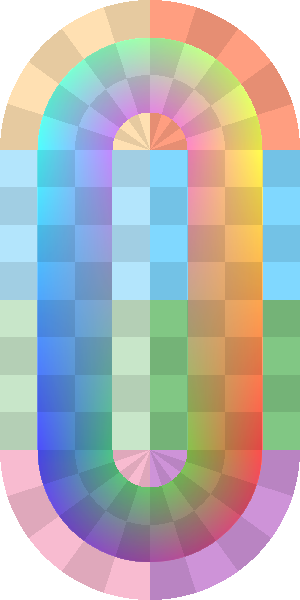
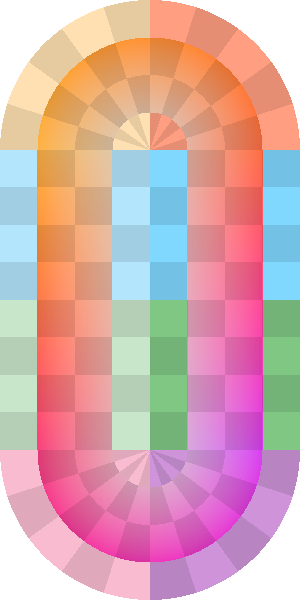
GuiaAjedrez: degradado LCH con centro gris, sin variantes experimentales
Seis colores: pasteles de las tapas saturados (0,75) en los extremos y gris neutro
en el centro de cada nodo; LCH por el arco corto sin saltos. Se descartan las
variantes (colores vivos, RGB, HSL, tono fijo, centros azul y verde).

Claude-Session: https://claude.ai/code/session_01BibuGpxHYXsoU2GosAu2A9

diff --git a/implementacion/java/src/test/java/EstudioGuia.java b/implementacion/java/src/test/java/EstudioGuia.java
@@ -3,50 +3,61 @@ import java.awt.geom.Point2D;
 import java.awt.image.BufferedImage;
 import javax.imageio.ImageIO;
 /**
- * Estudio (rama estudio_pliegues_polar): textura de referencia "informativa" GuiaAjedrez. Tres capas:
- * Textura de 16 x 32 unidades definida por la distancia d a la espina (segmento entre los centros (8, 8) y (8, 24)): d <= 2 sólido, 2 < d <= 6 degradado
- * de la propia gota (radio 6, vuelto a usar como textura), 6 < d <= 8 sólido; los sólidos son los colores de zona de {@link Texturas#referenciaLados()}; encima, ajedrez.
- * Uso: EstudioGuia  (genera estudio_guia_textura.png y estudio_guia_t3b_*.png)
+ * Textura de referencia de los estudios (rama estudio_pliegues_polar, issue #29): {@link GuiaAjedrez}, usada como {@code EstudioUV.Guia}.
+ *
+ * <p>Textura de 16 x 32 unidades definida por la distancia d a la espina (segmento entre los centros (8, 8) y (8, 24)):
+ * <ul><li>d &lt;= 2 y 6 &lt; d &lt;= 8: sólido, con los colores de zona (pasteles por cuarto de v y lado de u).</li>
+ *   <li>2 &lt; d &lt;= 6: degradado generado por la propia gota (recta, radio 6, centros (8, 8) y (8, 24)) y reutilizado como textura. Sus seis colores son los
+ *     pasteles de las tapas con la saturación subida a 0,75 (extremos) y un gris neutro en el centro de cada nodo, interpolados en LCH por el arco corto del tono:
+ *     el gris no tiene tono, así que cada lado interpola hacia él con el suyo y no hay saltos.</li>
+ *   <li>Encima, ajedrez que oscurece un 10 % las celdas impares: celdas de 2 unidades en el cuerpo; en las tapas, anillos de 2 y sectores de 18° (10 por media tapa:
+ *     el eje cae en un borde de sector y la alternancia cruza la costura); la tapa de arriba lleva desfase 1 para alternar con el cuerpo.</li></ul>
+ *
+ * <p>Qué delata: el ajedrez, la densidad de texels; el degradado, la continuidad de u/v; los sólidos, la pertenencia a cada zona.
+ * Uso: EstudioGuia (genera estudio_guia_textura.png y estudio_guia_t3b_*.png).
  */
 public class EstudioGuia {
-    /** Textura de 16 x 32 unidades: degradado de una gota recta de radio 6 con centros en (8, 8) y (8, 24), a 16 px por unidad. */
+    static final int[] IZQ = { 0xFFFFE0B2, 0xFFB3E5FC, 0xFFC8E6C9, 0xFFF8BBD0 }, DER = { 0xFFFF9E80, 0xFF80D8FF, 0xFF81C784, 0xFFCE93D8 };
+    static final double SATURACION = 0.75, OSCURO = 0.10;
+    static final int GRIS = 0xFFD0D0D0;
+
+    /** Mismo matiz con la saturación subida al menos a sat (y brillo alto). */
+    static int satura(int c, double sat) {
+        float[] hsb = Color.RGBtoHSB((c >> 16) & 255, (c >> 8) & 255, c & 255, null);
+        return 0xFF000000 | (Color.HSBtoRGB(hsb[0], (float) Math.max(hsb[1], sat), Math.max(hsb[2], 0.95f)) & 0xFFFFFF);
+    }
+
+    /** Textura de 16 x 32 unidades: la gota de radio 6 con centros (8, 8) y (8, 24), a 16 px por unidad, rellena con los seis colores de la guía. */
     static Texturas.Textura degradadoDeGota() {
         int k = 16, w = 16 * k, h = 32 * k;
+        Relleno rel = Colores.cadenaLateral(
+                new Colores.Lateral(satura(IZQ[0], SATURACION), GRIS, satura(DER[0], SATURACION)),      // nodo 1 (arriba): colores de la tapa de arriba
+                new Colores.Lateral(satura(IZQ[3], SATURACION), GRIS, satura(DER[3], SATURACION)), Mezcla.LCH);
         BufferedImage im = EstudioUV.lienzo(w, h);
         for (int i = 0; i < w * h; i++) im.getRaster().getDataBuffer().setElem(i, 0);      // transparente fuera de la gota
         Gota g = Gota.lineal(new Point2D.Double(8 * k, 8 * k), 6 * k, new Point2D.Double(8 * k, 24 * k), 6 * k, Perfil.recto());
-        Plotter.raster(im).plot(g, SuiteMatriz_03_Colores.RELLENO, SuiteMatriz_03_Colores.OPCIONES);
+        Plotter.raster(im).plot(g, rel, SuiteMatriz_03_Colores.OPCIONES);
         return Texturas.deImagen(im);
     }
 
-    /**
-     * Distancia d a la espina (segmento entre los centros), en unidades de una textura de 16 x 32:
-     * d <= 2 núcleo sólido (la banda central de 4 de ancho y el seminúcleo de las tapas), 2 < d <= 6 degradado de la gota, 6 < d <= 8 aro exterior sólido.
-     * Ajedrez al final, en todo: celdas de 2 unidades (cuerpo cuadrado, tapas en anillos de 2 y sectores de 18° (10 por media tapa: par, así el eje cae en un borde de sector y la alternancia continúa la del cuerpo; un giro de 180° ya no invierte la paridad)).
-     */
     static final class GuiaAjedrez implements Texturas.Textura {
-        static final int[] IZQ = { 0xFFFFE0B2, 0xFFB3E5FC, 0xFFC8E6C9, 0xFFF8BBD0 }, DER = { 0xFFFF9E80, 0xFF80D8FF, 0xFF81C784, 0xFFCE93D8 };
         final Texturas.Textura grad = degradadoDeGota();
-        final double claro, oscuro;
-        GuiaAjedrez(double claro, double oscuro) { this.claro = claro; this.oscuro = oscuro; }
         @Override public double aspecto() { return 0.5; }
         @Override public int muestrea(double u, double v) {
             double x = u * 16, y = v * 32, dx = x - 8, dy = y - Math.max(8, Math.min(24, y)), d = Math.hypot(dx, dy);
             if (d > 8) return 0;                                                  // fuera de la cápsula
-            int c;
-            if (d > 2 && d <= 6) c = Mezcla.RGB.mezclar(grad.muestrea(u, v), 0xFFFFFFFF, claro);
-            else c = (u < 0.5 ? IZQ : DER)[v < 0.25 ? 0 : v < 0.5 ? 1 : v < 0.75 ? 2 : 3];
+            int c = d > 2 && d <= 6 ? grad.muestrea(u, v) : (u < 0.5 ? IZQ : DER)[v < 0.25 ? 0 : v < 0.5 ? 1 : v < 0.75 ? 2 : 3];
             int par;
-            if (y < 8 || y > 24) par = ((int) Math.floor(d / 2) + (int) Math.floor(Math.atan2(Math.abs(dy), dx) / Math.toRadians(18)) + (y < 8 ? 1 : 0)) & 1;   // tapa de arriba con desfase 1: alterna con la primera fila del cuerpo (la de abajo ya alterna con la última)
+            if (y < 8 || y > 24) par = ((int) Math.floor(d / 2) + (int) Math.floor(Math.atan2(Math.abs(dy), dx) / Math.toRadians(18)) + (y < 8 ? 1 : 0)) & 1;
             else par = ((int) Math.floor(x / 2) + (int) Math.floor((y - 8) / 2)) & 1;
             if (par == 0) return c | 0xFF000000;
-            int rgb = 0; for (int sh = 16; sh >= 0; sh -= 8) rgb |= (int) Math.round(((c >> sh) & 255) * (1 - oscuro)) << sh;
+            int rgb = 0; for (int sh = 16; sh >= 0; sh -= 8) rgb |= (int) Math.round(((c >> sh) & 255) * (1 - OSCURO)) << sh;
             return 0xFF000000 | rgb;
         }
     }
 
     public static void main(String[] a) throws Exception {
-        Texturas.Textura t = new GuiaAjedrez(0.30, 0.10);
+        Texturas.Textura t = new GuiaAjedrez();
         int W = 300, H = 600;
         BufferedImage tx = EstudioUV.lienzo(W, H);
         for (int y = 0; y < H; y++) for (int x = 0; x < W; x++) {

diff --git a/implementacion/java/src/test/java/EstudioUV.java b/implementacion/java/src/test/java/EstudioUV.java
@@ -8,7 +8,7 @@ public class EstudioUV {
      * propia gota en medio y ajedrez encima). Sustituye a la antigua {@link GuiaLineas}, que se conserva para comparar.
      */
     static final class Guia implements Texturas.Textura {
-        private final Texturas.Textura t = new EstudioGuia.GuiaAjedrez(0.30, 0.10);
+        private final Texturas.Textura t = new EstudioGuia.GuiaAjedrez();
         @Override public double aspecto() { return t.aspecto(); }
         @Override public int muestrea(double u, double v) { return t.muestrea(u, v); }
     }

diff --git a/implementacion/java/ESTUDIO_SOLAPES.md b/implementacion/java/ESTUDIO_SOLAPES.md
@@ -515,11 +515,17 @@ Decisión de Samuel (2026-11-17): documentarlo para estudiarlo más adelante («
 
 Desde 2026-11-18 los estudios usan una textura «chivata» (`EstudioUV.Guia` = `EstudioGuia.GuiaAjedrez`; la anterior queda como `EstudioUV.GuiaLineas`). Definida sobre una textura de 16 × 32 unidades por la distancia d a la espina (segmento entre los centros (8, 8) y (8, 24)):
 
-- d ≤ 2: sólido (banda central de 4 y seminúcleo de las tapas); 6 < d ≤ 8: aro exterior sólido. Colores de zona por cuarto de v y por lado de u.
-- 2 < d ≤ 6: degradado de 6 colores generado por la propia gota (recta, radio 6, centros (8, 8) y (8, 24)) y reutilizado como textura (`Texturas.deImagen`), aclarado un 30 %.
+- d ≤ 2 (banda central de 4 y seminúcleo de las tapas) y 6 < d ≤ 8 (aro exterior): sólido, con los colores de zona (pasteles por cuarto de v y lado de u).
+- 2 < d ≤ 6: degradado generado por la propia gota (recta, radio 6, centros (8, 8) y (8, 24)) y reutilizado como textura (`Texturas.deImagen`). Sus seis colores: los pasteles de las tapas con la saturación subida a 0,75 en los extremos y un gris neutro (`#D0D0D0`) en el centro de cada nodo, interpolados en LCH por el arco corto del tono.
 - Ajedrez encima (oscurece un 10 % las celdas impares): celdas de 2 unidades en el cuerpo; en las tapas, anillos de 2 y sectores de 18° (10 por media tapa, par, para que el eje caiga en un borde y la alternancia cruce la costura; la tapa de arriba lleva desfase 1 para alternar con el cuerpo).
-- Ajuste por efecto óptico: el verde derecho es `#81C784` (con `#A5D6A7` el verde claro con celda oscura se confundía con el verde oscuro con celda clara; distancia de color 22 → 71).
 - Qué delata: el ajedrez, la densidad de texels (compresión y estiramiento); el degradado, la continuidad de u/v; los sólidos, la pertenencia a cada zona. Un giro de 180° ya no invierte la paridad del ajedrez de las tapas; la pista de orientación son los colores sólidos.
+
+Decisiones tomadas probando variantes (2026-11-18):
+
+- El verde derecho del cuerpo es `#81C784`: con `#A5D6A7` el verde claro con celda oscura se confundía con el verde oscuro con celda clara (distancia de color 22 → 71).
+- Degradado con los 6 colores vivos de la gota (`SuiteMatriz_03_Colores.RELLENO`): informaba «demasiado» y podía dar información contradictoria; con pasteles sin más, informaba poco (la mezcla RGB entre complementarios pasa por grises).
+- Interpolar por tono: con el arco corto aparecen saltos donde dos colores quedan a ~180° de tono (naranja/azul, rosa/verde); con el tono fijo (horario o antihorario) se da la vuelta entera al círculo cromático. El centro **gris** (acromático) evita los saltos: LCH toma el tono del extremo.
+- Probado y descartado: centros azul y verde muy saturados (solo se ven si se remapea la distancia para que el centro de la gota caiga junto al núcleo, y el verde puro dio una costura). Samuel elige el centro gris: «buen equilibrio entre información y sutileza».
 
 Imágenes: `estudio/guia_ajedrez_textura.png`, `estudio/pliegue_t3b_ortogonal_guia_ajedrez.png`. Pendiente: suavizar (o no) los cortes duros en d = 2 y d = 6; decidir si esta textura pasa a la biblioteca (`Texturas.referenciaLados`) o a `CosturasDemo.Guia`, que no se han tocado.
 
